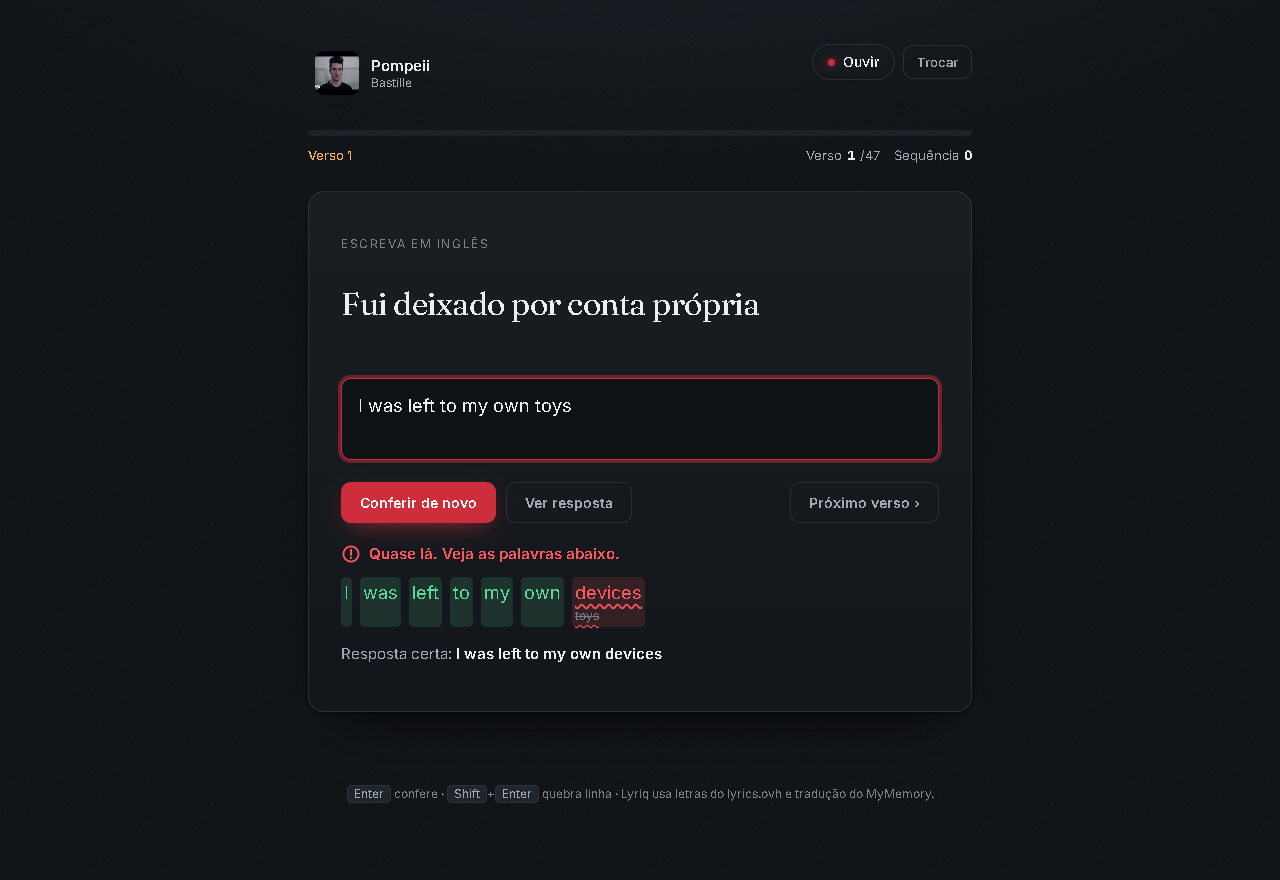
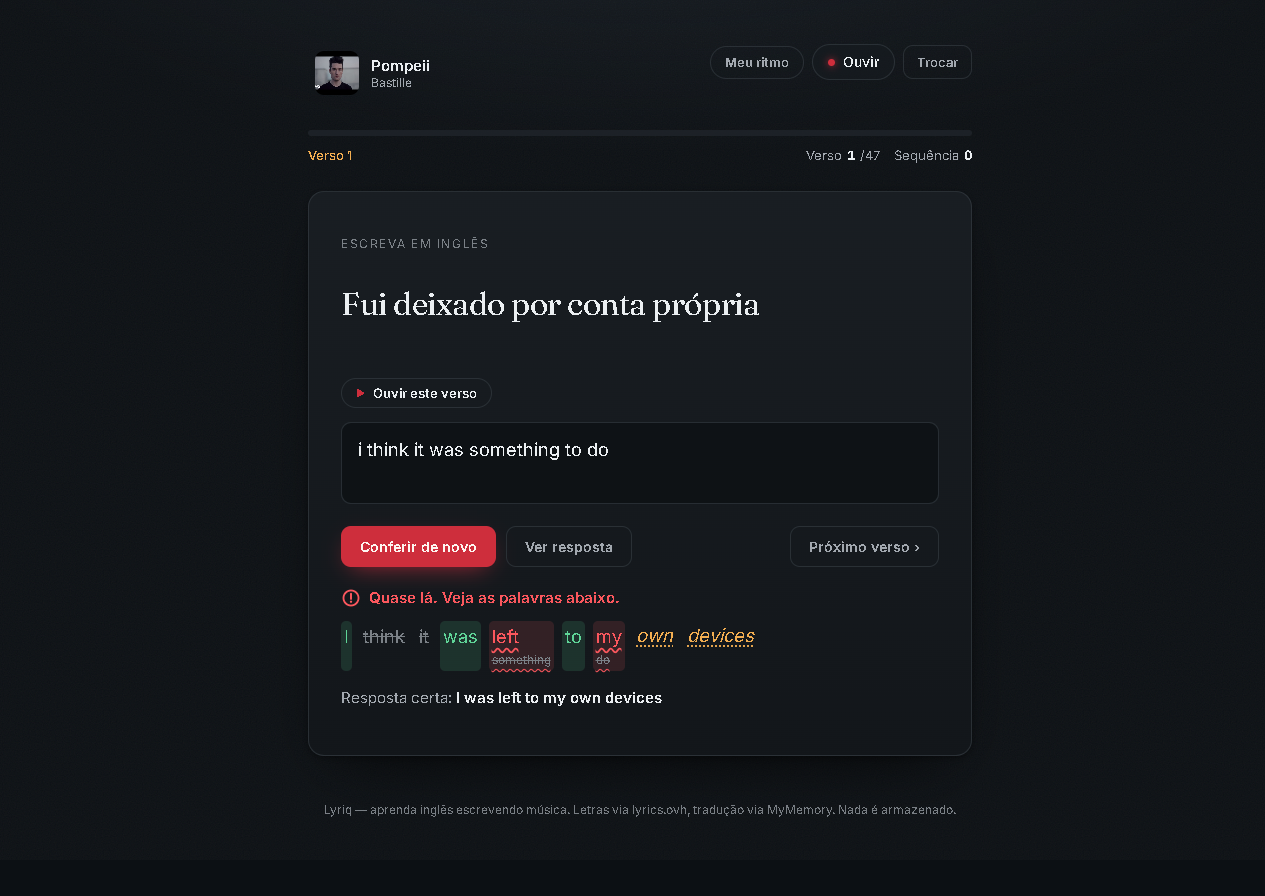
Bring the product doc and screenshots up to date with the catalog
PRODUCT.md still described a trainer built around a single song, which was
true before the catalog landed. It now covers the ten levelled songs, any
YouTube link, the three training preferences and the prompt language.

It also gained a privacy section, because "nothing leaves the browser" is a
product position rather than an implementation detail, and it is exactly what
a future accounts phase would trade away. The "one song, done exceptionally"
principle is gone, since the product is no longer that.

The screenshots dated from the first commit, so they showed an interface
without the catalog or the preferences. Recaptured at 1280px: the home with
all ten cards and the level filter, and the word by word correction with its
four marks, using the built-in demo so the shot needs no network.

DESIGN.md is from the same commit but still holds, since the palette and the
type pairing it describes are what ships.

diff --git a/PRODUCT.md b/PRODUCT.md
@@ -9,26 +9,30 @@ product
 web
 
 ## Users
-A Brazilian Portuguese speaker learning English who already knows and likes a specific song. They use this on a laptop, keyboard in front of them, often with the track playing. The job to be done: turn a song they already love into active writing practice, typing the English lyrics from a Portuguese prompt and getting immediate, precise correction, rather than passively reading a translation.
+A Brazilian Portuguese speaker learning English who already knows and likes the song they pick. They use this on a laptop, keyboard in front of them, with the track playing. The job to be done: turn a song they already love into active writing practice, typing the English lyrics and getting immediate, precise correction, rather than passively reading a translation. The prompt language is theirs to choose (Portuguese by default, plus Spanish, French, German and Italian), because the point is writing English, not reading English.
 
 ## Product Purpose
-A focused typing trainer built around one song ("Pompeii" by Bastille). It shows each line's meaning in Portuguese and asks the learner to write the English, then grades it word by word so mistakes are visible and fixable. Success is a session where the learner writes the whole song, sees exactly which words tripped them up, and wants to run it again to beat their accuracy.
+A typing trainer built around songs the learner already sings. It shows each line's meaning in their language and asks them to write the English, then grades it word by word so mistakes are visible and fixable. Ten curated songs, tagged by level, get them started in one tap; any YouTube link works too. The learner chooses how to practise: translation or dictation, one line or a whole paragraph, their own rhythm or letting the song set the pace. Success is a session where the learner writes a whole song, sees exactly which words tripped them up, and wants to run it again to beat their accuracy.
 
 ## Positioning
 Learn English by writing the songs you already sing, one line at a time, with correction that shows you the exact word you missed.
 
+## Privacy stance
+Nothing leaves the browser. There is no account and no database of our own: progress and training preferences live in `localStorage`, and lyrics are fetched on demand and never stored. This is a product position, not just an implementation detail, and any future sync feature has to be weighed against it.
+
 ## Brand Personality
-Atmospheric and calm, not gamified-loud. The voice is a quiet coach: encouraging on a hit, matter-of-fact on a miss, never patronizing. Three words: smoldering, focused, human. The mood borrows from the song itself, ash and ruins with an ember of hope, so the interface feels like a late-night practice session rather than a classroom app.
+Atmospheric and calm, not gamified-loud. The voice is a quiet coach: encouraging on a hit, matter-of-fact on a miss, never patronizing. Three words: smoldering, focused, human. The mood is ash and ruins with an ember of hope, inherited from "Pompeii" (the song the trainer was first built around, still the built-in demo) and kept as the brand's own, so the interface feels like a late-night practice session rather than a classroom app.
 
 ## Anti-references
 Not Duolingo (cartoon mascots, streak-guilt, confetti spam). Not a flashcard grid. Not a generic SaaS dashboard with a cream background and a hero-metric row. No gradient text, no glassmorphism, no badge soup.
 
 ## Design Principles
-- One song, done exceptionally, beats a hundred generic exercises.
+- A short, curated catalog plus any song the learner brings, never an endless bank of generic exercises.
 - Correction over judgment: show the exact words, let the learner see the fix.
 - The song sets the mood; the UI stays out of the way of typing.
 - Keyboard-first: the whole loop works without touching the mouse.
 - Calm feedback: acknowledge progress without shouting.
+- The learner's choices are remembered, so the app never asks the same question twice.
 
 ## Accessibility & Inclusion
 Target WCAG 2.1 AA. Full keyboard operability, visible focus states, body text ≥4.5:1 on the dark surface, honor `prefers-reduced-motion` with crossfades instead of movement, and never signal correctness by color alone (pair color with icon/label and word markup).

diff --git a/README.md b/README.md
@@ -15,7 +15,7 @@ correção **palavra por palavra** — enquanto a letra sincronizada acompanha o
    intermediário, avançado), ou cole qualquer URL do YouTube.
 2. O app resolve artista/música pelo oEmbed do YouTube, busca a letra e a tradução.
 3. Você revisa e edita a letra e a tradução antes de começar — nada é armazenado.
-4. Escolha como quer treinar:
+4. Escolha como quer treinar — as três escolhas ficam salvas para a próxima vez:
    - **Modo** — *tradução* (a dica aparece no seu idioma e você escreve o verso em
      inglês) ou *ditado* (ouça e escreva de ouvido, sem tradução).
    - **Tamanho do trecho** — uma frase por vez, ou um parágrafo inteiro. A divisão
@@ -48,7 +48,9 @@ Nada sai do navegador. Não há conta nem back-end próprio.
 
 - **Progresso por música** (melhor precisão, melhor sequência, número de sessões),
   em `localStorage` sob `lyriq.progress.v1`, com o id do vídeo como chave.
-- **Preferências de treino** (tamanho do trecho e ritmo), sob `lyriq.prefs.v1`.
+- **Preferências de treino** (modo, tamanho do trecho e ritmo), sob `lyriq.prefs.v1`.
+  As três voltam como você deixou; um valor antigo ou editado à mão cai no padrão
+  em vez de quebrar a tela.
 
 O catálogo guarda **só metadados** — artista, título e id do vídeo. As letras são
 buscadas na hora e nunca ficam no repositório.
